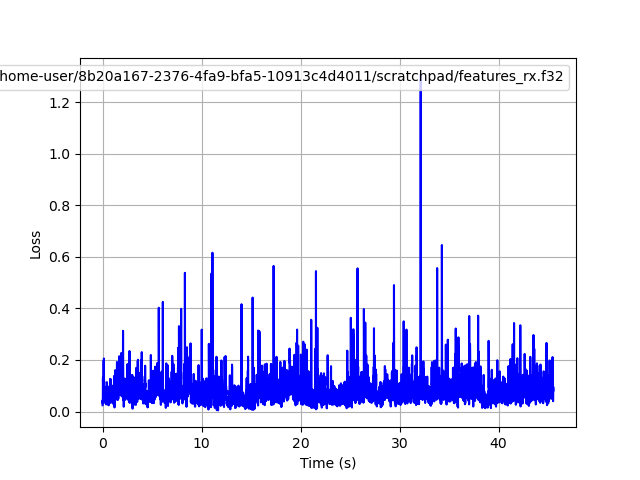
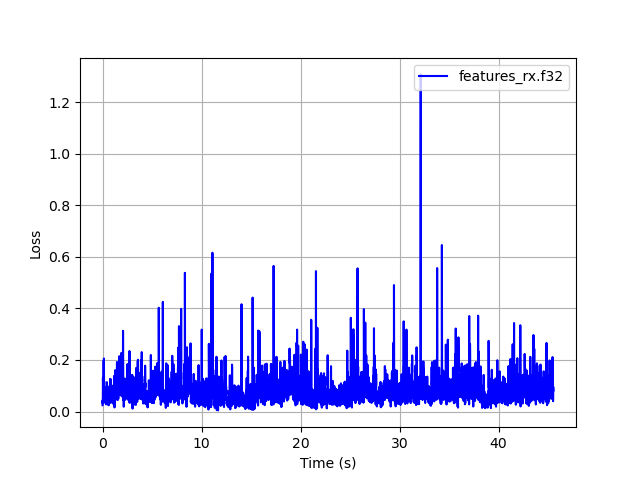
verification: remove duplicate worked example section; regenerate clean PNGs

Changed region(s): [[0.0, 0.125, 0.875, 0.1875]]

diff --git a/doc/verification/verification_procedure.md b/doc/verification/verification_procedure.md
@@ -149,48 +149,6 @@ the reference baseline. `--clip_start 100` (1 s) and `--clip_end 300` (3 s)
 are conservative defaults; your integration may need different values
 depending on acquisition time. Use `--plot` to check.
 
-## Worked Example of Loss Tests
-
-The following example uses the rade_c WAV tools as the device under test
-to demonstrate the full loss measurement workflow, including how to identify
-and clip start/end transients. You may notice similar transients when testing
-your own application or radio — it is good practice to remove them, as they
-inflate the mean loss and can mask the true integration performance.
-
-Run a V2 software loopback from the `rade_c/build` directory, exporting
-feature vectors at both ends:
-
-```
-./src/rade_tx_wav --v2 -f features_tx.f32 ../wav/all.wav tx.wav
-./src/rade_rx_wav --v2 -f features_rx.f32 tx.wav decoded.wav
-```
-
-First pass — no clipping, `--plot` to inspect the loss curve:
-
-```
-python3 ~/radae/loss.py features_tx.f32 features_rx.f32 \
-    --plot --png loss_unclipped.png
-```
-
-![Loss before clipping](loss_unclipped.png)
-
-The spike at the start (~22) is the RADE acquisition transient; the smaller
-spike at the end (~3) is the end-of-over frame. Both are expected behaviour
-from the state machine. Clip them out and re-run:
-
-```
-python3 ~/radae/loss.py features_tx.f32 features_rx.f32 \
-    --clip_start 100 --clip_end 300 \
-    --plot --png loss_clipped.png
-```
-
-![Loss after clipping](loss_clipped.png)
-
-With transients removed, loss drops from 0.113 to 0.082 — consistent with
-the reference baseline. `--clip_start 100` (1 s) and `--clip_end 300` (3 s)
-are conservative defaults; your integration may need different values
-depending on acquisition time. Use `--plot` to check.
-
 ### Automated pass/fail
 
 To compare your application against the rade_c software reference without
